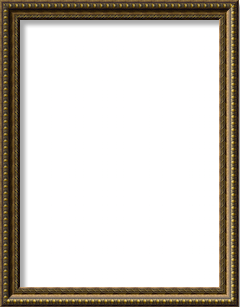
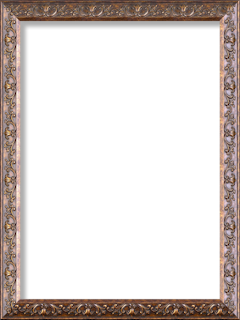
getting resources ready to generate a new bootstrap theme

Changed region(s): [[0.0, 0.0, 1.0, 1.0]]

diff --git a/public/css/main.css b/public/css/main.css
@@ -1,38 +1,149 @@
-html, body {
-    height: 100%;
-}
-
-html{
+html {
 	background: url('../images/clouds.jpg');
 }
 
-body{
-	background: url('../images/pictureframe2.jpg');
-	background-repeat: no-repeat;
-    background-position: center;
-    background-size: cover;
-	
+body {
+	background: url('../images/240x320.png');
+	width: 240px;
+	height: 320px;
+	margin: auto;
+	position: absolute;
+	top: 0;
+	left: 0;
+	bottom: 0;
+	right: 0;
 }
+
+#wrapper{
+	background: url('../images/greymetal.jpg');
+	z-index:-1;
+	margin: auto;
+	position:absolute;
+	top: 0;
+	left: 0;
+	bottom: 0;
+	right: 0;
+	width: 200px;
+	height: 280px;
+}
+
+@media screen and (min-width: 320px) {
+	body {
+		background: url('../images/320x480.png');
+		width: 320px;
+		height: 480px;
+	}
+	#wrapper {
+		width: 280px;
+		height: 440px;
+	}
+}
+
+@media screen and (min-width: 480px) {
+	body {
+		background: url('../images/480x320.png');
+		width: 480px;
+		height: 320px;
+	}
+	#wrapper {
+		width: 440px;
+		height: 280px;
+	}
+}
+
+@media screen and (min-width: 600px) {
+	body {
+		background: url('../images/600x800.png');
+		width: 600px;
+		height: 800px;
+	}
+	#wrapper {
+		width: 500px;
+		height: 700px;
+	}
+}
+
+@media screen and (min-width: 768px) {
+	body {
+		background: url('../images/600x800.png');
+		width: 600px;
+		height: 800px;
+	}
+	#wrapper {
+		width: 500px;
+		height: 700px;
+	}
+}
+
+@media screen and (min-width: 800px) {
+	body {
+		background: url('../images/800x600.png');
+		width: 800px;
+		height: 600px;
+	}
+	#wrapper {
+		width: 700px;
+		height: 500px;
+	}
+}
+
+@media screen and (min-width: 1024px) {
+	body {
+		background: url('../images/800x600.png');
+		width: 800px;
+		height: 600px;
+	}
+	#wrapper {
+		width: 700px;
+		height: 500px;
+	}
+}
+
+@media screen and (min-width: 1400px) {
+	body {
+		background: url('../images/1280x720.png');
+		width: 1280px;
+		height: 720px;
+	}
+	#wrapper {
+		width: 1150px;
+		height: 598px;
+	}
+}
+
+@media screen and (min-width: 2000px) {
+	body {
+		background: url('../images/1280x720.png');
+		width: 1800px;
+		height: 1062px;
+	}
+}
+
 #wrap {
-    height: auto;
-    margin: 0 auto -60px;
-    min-height: 100%;
-    padding: 0 0 60px;
+	height: auto;
+	margin: 0 auto -60px;
+	min-height: 100%;
+	padding: 0 0 60px;
 }
+
 #footer {
-    background-color: #F5F5F5;
-    height: 60px;
+	background-color: #F5F5F5;
+	height: 60px;
 }
-#wrap > .container {
-    padding: 60px 15px 0;
+
+#wrap>.container {
+	padding: 60px 15px 0;
 }
+
 .container .credit {
-    margin: 20px 0;
+	margin: 20px 0;
 }
-#footer > .container {
-    padding-left: 15px;
-    padding-right: 15px;
+
+#footer>.container {
+	padding-left: 15px;
+	padding-right: 15px;
 }
+
 code {
-    font-size: 80%;
+	font-size: 80%;
 }

diff --git a/public/frameOnWall.html b/public/frameOnWall.html
@@ -1,79 +1,9 @@
 <!Doctype html>
 <html>
 <head><title>frame on wall</title>
-<style>
-html{
-	background: url('../images/clouds.jpg');
-}
-
-body{
-	background: url('../images/240x320.png');
-	background-repeat: no-repeat;
-    background-position: center;
-    background-size: cover;
-	width: 240px;
-	height: 320px;
-  margin: auto;
-  position: absolute;
-  top: 0; left: 0; bottom: 0; right: 0;
-}
-
-@media screen and (min-width: 320px) {
-body{
-	background: url('../images/320x480.png');
-		width: 320px;
-	height: 455px;
-	
-}
-}
-@media screen and (min-width: 480px) {
-body{
-	background: url('../images/480x320.png');
-		width: 455px;
-	height: 320px;
-	
-}
-}
-@media screen and (min-width: 600px) {
-body{
-	background: url('../images/600x800.png');
-		width: 600px;
-	height: 769px;
-	
-}
-}
-
-@media screen and (min-width: 768px) {
-body{
-	background: url('../images/768x1024.png');
-		width: 768px;
-	height: 985px;
-	
-}
-}
-
-@media screen and (min-width: 800px) {
-body{
-	background: url('../images/800x600.png');
-		width: 769px;
-	height: 600px;
-	
-}
-}
-
-@media screen and (min-width: 1024px) {
-body{
-	background: url('../images/1024x768.png');
-		width: 985px;
-	height: 768px;
-	
-}
-}
-
-
-</style>
+<link rel="stylesheet" href="css/main.css" />
 </head>
 <body>
-Rich was here!
+<div id="wrapper"></div>
 </body>
 </html>
